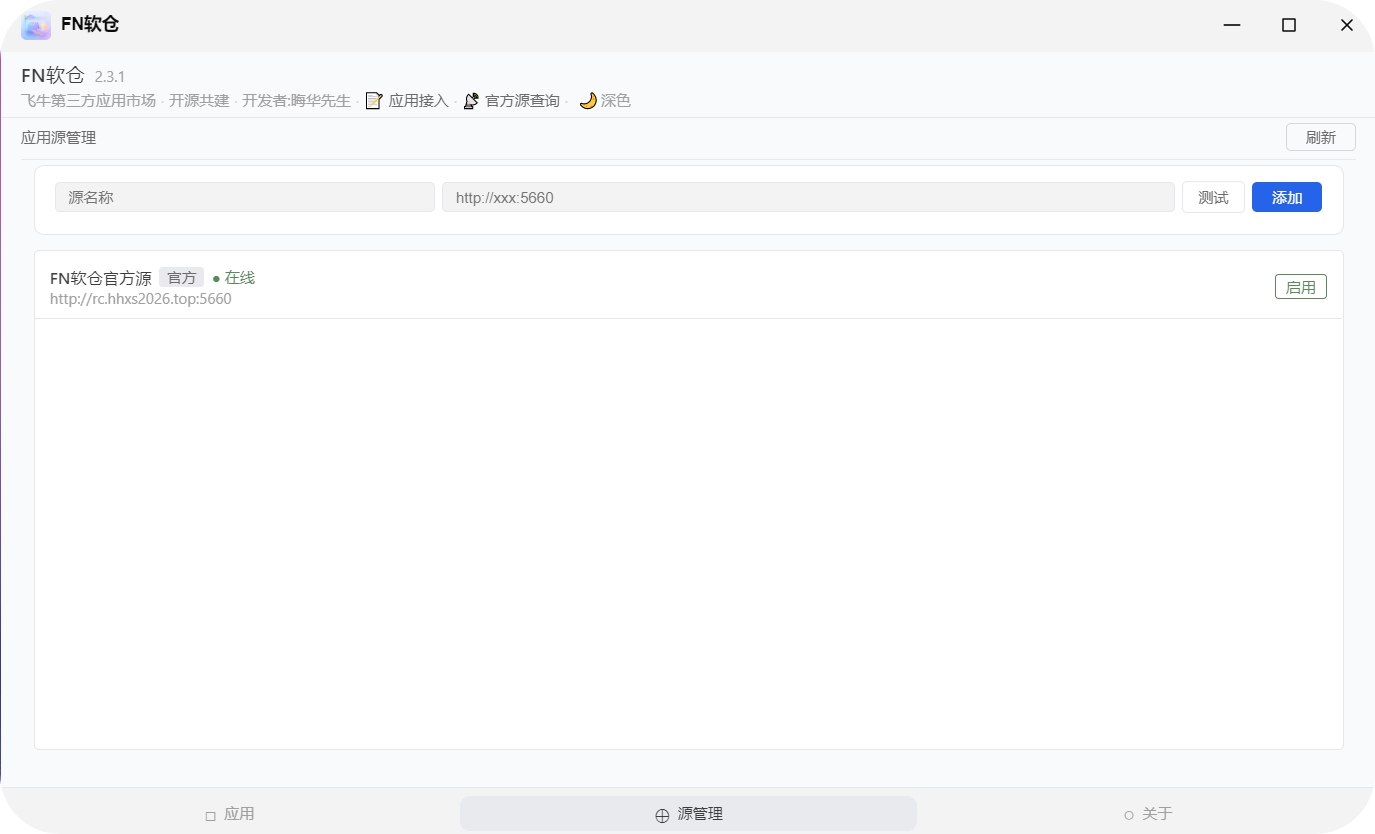
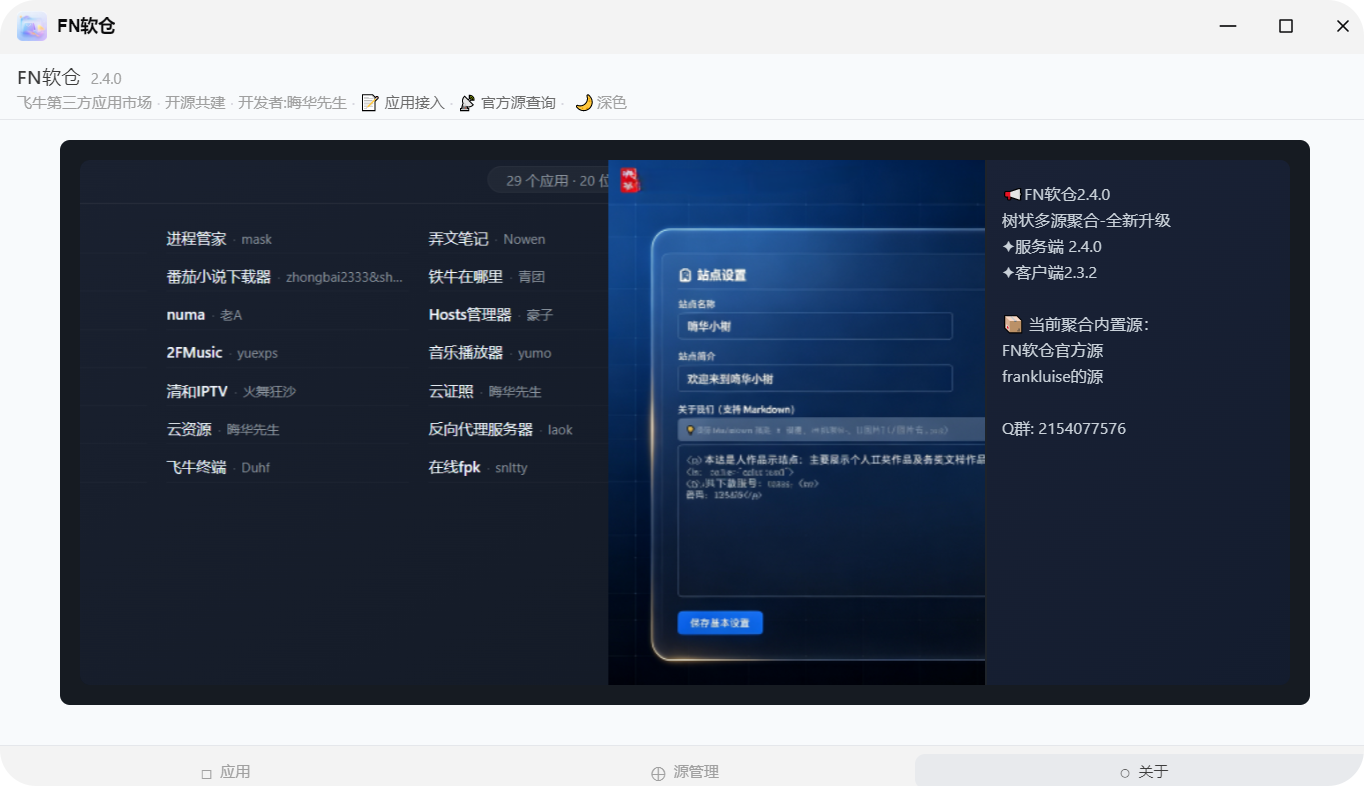
2.4.0客户端代码

diff --git a/client-src/app/server/templates/index.html b/client-src/app/server/templates/index.html
@@ -1235,7 +1235,7 @@
         background: rgba(80, 70, 40, 0.92);
     }
 
-    /* ===== 关于页面（核心修改） ===== */
+    /* ===== 关于页面 ===== */
     .about-container {
         width: 100%;
         max-width: 100%;
@@ -1306,16 +1306,6 @@
     .theme-toggle-btn:hover {
         background: var(--hover-bg);
         border-color: var(--border-hover);
-    }
-
-    /* ===== 🆕 公告内容区域 ===== */
-    #noticeContent {
-        font-size: 13px;
-        color: var(--text-secondary);
-        line-height: 1.8;
-        padding: 4px 0;
-        word-wrap: break-word;
-        overflow-wrap: break-word;
     }
 
     /* ===== 深色模式 ===== */
@@ -1467,6 +1457,51 @@
         background: #2a3a5a;
     }
 
+    /* ===== 关于页公告轮播图（v2.4.0） ===== */
+    .nb-wrapper {
+        background: #161b22;
+        border-radius: 8px;
+        padding: 16px;
+        max-width: 1000px;
+        margin: 0 auto;
+    }
+    .nb-board {
+        background: linear-gradient(145deg, #1c2333, #131a26);
+        border-radius: 8px;
+        overflow: hidden;
+        height: 420px;
+        display: flex;
+        flex-direction: column;
+    }
+    .nb-top {
+        flex: 1;
+        display: flex;
+        flex-direction: row;
+        min-height: 0;
+        height: 100%;
+    }
+    .nb-carousel {
+        flex: 0 0 75%;
+        height: 100%;
+        background: #0b1018;
+        position: relative;
+        overflow: hidden;
+        border-right: 2px solid rgba(255, 255, 255, 0.08);
+    }
+    .nb-text {
+        flex: 0 0 25%;
+        padding: 16px 12px 14px 12px;
+        display: flex;
+        flex-direction: column;
+        justify-content: flex-start;
+        background: linear-gradient(135deg, #1a2236, #131c2e);
+        gap: 2px;
+        color: #c9d1d9;
+        font-size: 13px;
+        line-height: 1.6;
+        overflow-y: auto;
+    }
+
     /* ===== 响应式 ===== */
     @media (min-width: 1400px) {
         .app-grid {
@@ -1515,6 +1550,28 @@
 
         .about-card {
             padding: 12px 14px;
+        }
+
+        .nb-board {
+            height: auto;
+            min-height: 420px;
+        }
+        .nb-top {
+            flex-direction: column;
+            height: auto;
+        }
+        .nb-carousel {
+            flex: 0 0 auto;
+            width: 100%;
+            height: 200px;
+            border-right: none;
+            border-bottom: 2px solid rgba(255, 255, 255, 0.08);
+        }
+        .nb-text {
+            flex: 0 0 auto;
+            width: 100%;
+            padding: 14px 16px;
+            gap: 4px;
         }
     }
 
@@ -1602,6 +1659,13 @@
         .about-card p {
             font-size: 12px;
         }
+
+        .nb-board {
+            min-height: 360px;
+        }
+        .nb-carousel {
+            height: 150px;
+        }
     }
 
     @media (max-width: 400px) {
@@ -1632,6 +1696,10 @@
         .detail-tab {
             padding: 4px 8px;
             font-size: 10px;
+        }
+
+        .nb-carousel {
+            height: 120px;
         }
     }
 </style>
@@ -2222,8 +2290,22 @@
                 versionHtml += ' <span class="installed-badge">✓</span>';
             }
 
-            // 来源标签
-            var sourceLabel = app._source_name ? '<span style="font-size:8px;color:var(--text-muted);background:var(--bg);padding:0 6px;border-radius:3px;margin-left:4px;">' + app._source_name + '</span>' : '';
+            // ===== 来源标签（v2.4.0 认证标识） =====
+            var sourceLabel = '';
+            if (app._source_name) {
+                var displayName = app._source_name;
+                var prefix = '';
+                var isOfficial = app._source_id === 'official';
+                var isUserAdded = app._source_id && app._source_id.startsWith('source_') && !isOfficial;
+
+                if (isOfficial) {
+                    prefix = 'FN软仓官方源';
+                    displayName = '';
+                } else if (!isUserAdded && app._source_id) {
+                    prefix = '✅FN-';
+                }
+                sourceLabel = '<span class="source-tag" style="font-size:8px;color:var(--text-muted);background:var(--bg);padding:0 6px;border-radius:3px;margin-left:4px;">' + prefix + displayName + '</span>';
+            }
 
             var tagsHtml = '';
             var tags = getTagsArray(app.tags);
@@ -2235,21 +2317,17 @@
                 '<div class="top">' +
                 '<div class="icon">' + (app.icon ? '<img src="' + app.icon + '" alt="' + app.name + '">' : '·') + '</div>' +
                 '<div class="info">' +
-                '<div class="name">' + app.name + ' ' + versionHtml + sourceLabel + '</div>' +
+                '<div class="name">' + app.name + ' ' + versionHtml + '</div>' +
                 '<div class="author">' + (app.author || '未知') + '</div>' +
+                sourceLabel +
                 '</div>' +
                 '</div>' +
                 tagsHtml +
                 '<div class="desc">' + (app.desc || '暂无描述') + '</div>' +
-                // ===== 新增下载统计 =====
-               '<div class="actions" onclick="event.stopPropagation();" style="display:flex;align-items:center;gap:6px;flex-wrap:wrap;">' +
+                '<div class="actions" onclick="event.stopPropagation();" style="display:flex;align-items:center;gap:6px;flex-wrap:wrap;">' +
                       '<div style="display:flex;gap:4px;flex-wrap:wrap;">' + btnHtml + '</div>' +
                       '<span style="font-size:10px;color:var(--text-muted);margin-left:auto;white-space:nowrap;">📥 ' + (app.downloads || 0) + '</span>' +
                 '</div>' +
-                // ===== 新增结束 =====
-                // ===== 删除了下面这一行 =====
-                // '<div class="actions" onclick="event.stopPropagation();">' + btnHtml + '</div>' +
-                // ===== 删除结束 =====
                 '<div class="progress-container" id="progress-' + app.id + '">' +
                         '<div class="progress-bar-bg"><div class="progress-bar-fill" id="progressBar-' + app.id + '" style="width:0%;"></div></div>' +
                         '<div class="progress-text"><span class="status-msg" id="progressMsg-' + app.id + '">准备中...</span></div>' +
@@ -2489,7 +2567,6 @@
     var reconnectTimer = null;
 
     function connectWS() {
-                              
         var url = window.location.origin.replace(/^http/,'ws') + '/ws';
         try {
             if (ws && (ws.readyState === WebSocket.CONNECTING || ws.readyState === WebSocket.OPEN)) return;
@@ -2732,17 +2809,14 @@
                 htmlContent = '<p>无配置项，点击确认安装</p>';
             } else {
                 items.forEach(function (item) {
-                    // ===== 先处理 tips 类型 =====
                     if (item.type === 'tips') {
-                        // 优先使用 helpText，若为空则尝试 label，再尝试 initValue，最后默认“提示信息”
                         var tipText = item.helpText || item.label || item.initValue || '提示信息';
                         htmlContent += '<div class="wizard-field">';
                         htmlContent += '<div class="hint" style="margin-bottom:8px;">' + tipText + '</div>';
                         htmlContent += '</div>';
-                        return; // 跳过后续 label 和输入框渲染
+                        return;
                     }
 
-                    // ===== 非 tips 类型 =====
                     var required = item.rules && item.rules.some(function (r) { return r.required; });
                     htmlContent += '<div class="wizard-field">';
                     htmlContent += '<label>' + (item.label || item.field) + (required ? ' <span class="required">*</span>' : '') + '</label>';
@@ -2760,11 +2834,9 @@
                         var checked = item.initValue === 'true' || item.initValue === true;
                         htmlContent += '<div style="display:flex;align-items:center;gap:4px;"><input type="checkbox" id="wizard_' + item.field + '" name="' + item.field + '"' + (checked ? ' checked' : '') + '> ' + item.label + '</div>';
                     } else {
-                        // 未知类型默认文本输入
                         htmlContent += '<input type="text" id="wizard_' + item.field + '" name="' + item.field + '" value="' + (item.initValue || '') + '">';
                     }
 
-                    // 如果非 tips 类型有 helpText，作为辅助提示
                     if (item.helpText && item.type !== 'tips') {
                         htmlContent += '<div class="hint">' + item.helpText + '</div>';
                     }
@@ -2997,26 +3069,71 @@
     }
 
     // ================================================================
-    // 📢 公告板（v2.2.0）
+    // 📢 公告板（v2.4.0 新格式：carousel + desc + interval）
     // ================================================================
     async function loadNotice() {
         var container = document.getElementById('aboutContent');
-      
-        console.log('loadNotice 被调用了'); 
 
         try {
             var resp = await fetch(API_BASE + '/api/notice');
             var data = await resp.json();
 
-            console.log('公告数据:', data);
-
-            if (data.enabled && data.content) {
+            // 兼容旧版 content 格式
+            if (data.content && !data.carousel) {
                 container.innerHTML = data.content;
+                return;
+            }
+
+            if (data.enabled && data.carousel && data.carousel.length > 0 && data.desc) {
+                var baseUrl = window.location.origin;
+                var images = data.carousel.map(function(url) {
+                    if (url.startsWith('/')) {
+                        url = baseUrl + url;
+                    }
+                    return url;
+                });
+
+                var count = images.length;
+                var trackWidth = count * 100 + '%';
+                var slideWidth = 100 / count + '%';
+
+                // ===== 读取间隔时间，默认 5 秒 =====
+                var interval = data.interval || 5;
+                var totalDuration = count * interval;
+
+                // 生成轮播图 HTML
+                var slidesHtml = images.map(function(url) {
+                    return '<div class="carousel-slide" style="background-image:url(' + url + ');flex:0 0 ' + slideWidth + ';height:100%;background-size:cover;background-position:center;"></div>';
+                }).join('');
+
+                // 生成 CSS 关键帧（自动轮播）
+                var keyframes = '';
+                var step = 100 / count;
+                for (var i = 0; i < count; i++) {
+                    var start = i * step;
+                    var end = (i + 1) * step;
+                    var offset = i * 100;
+                    keyframes += start + '%{transform:translateX(-' + offset + '%);}';
+                    keyframes += end + '%{transform:translateX(-' + offset + '%);}';
+                }
+                keyframes += '100%{transform:translateX(0%);}';
+
+                var styleTag = document.createElement('style');
+                styleTag.textContent = '.carousel-track-about{display:flex;height:100%;width:' + trackWidth + ';animation:slideShowAbout ' + totalDuration + 's infinite ease-in-out;}.carousel-slide{flex:0 0 ' + slideWidth + ';height:100%;background-size:cover;background-position:center;}@keyframes slideShowAbout{' + keyframes + '}';
+
+                var html = '<div class="nb-wrapper"><div class="nb-board"><div class="nb-top"><div class="nb-carousel"><div class="carousel-track carousel-track-about">' + slidesHtml + '</div></div><div class="nb-text">' + data.desc + '</div></div></div></div>';
+
+                var wrapper = document.createElement('div');
+                wrapper.innerHTML = html;
+                wrapper.appendChild(styleTag);
+                container.innerHTML = wrapper.innerHTML;
+
+            } else if (data.enabled && data.desc && (!data.carousel || data.carousel.length === 0)) {
+                container.innerHTML = '<div class="nb-wrapper"><div class="nb-board"><div class="nb-top" style="flex:1;display:flex;align-items:center;justify-content:center;padding:20px;"><div class="nb-text" style="flex:1;padding:16px 20px;text-align:center;">' + data.desc + '</div></div></div></div>';
             } else {
                 container.innerHTML = '<div style="padding:20px;text-align:center;color:var(--text-muted);">暂无公告</div>';
             }
         } catch (e) {
-            console.error('加载公告失败:', e);  
             container.innerHTML = '<div style="padding:20px;text-align:center;color:var(--text-muted);">加载失败</div>';
         }
     }
@@ -3030,9 +3147,7 @@
         setTimeout(function() {
             loadApps();
         }, 300);
-        //loadLogs();//
-        loadNotice();  // 🆕 加载公告
-        // 源管理已独立，会在切换Tab时通过 switchTab 调用 loadSources
+        loadNotice();
     });
 </script>
 {% endblock %}

diff --git a/client-src/app/server/templates/layout.html b/client-src/app/server/templates/layout.html
@@ -426,7 +426,7 @@
     <header class="header">
         <div class="header-top">
             <span class="app-name">FN软仓</span>
-            <span class="app-version" id="appVersion">2.3.3</span>
+            <span class="app-version" id="appVersion">2.4.0</span>
             <span class="update-badge" id="updateBadge" onclick="goUpdate()">有新版本</span>
         </div>
         <div class="header-bottom">
